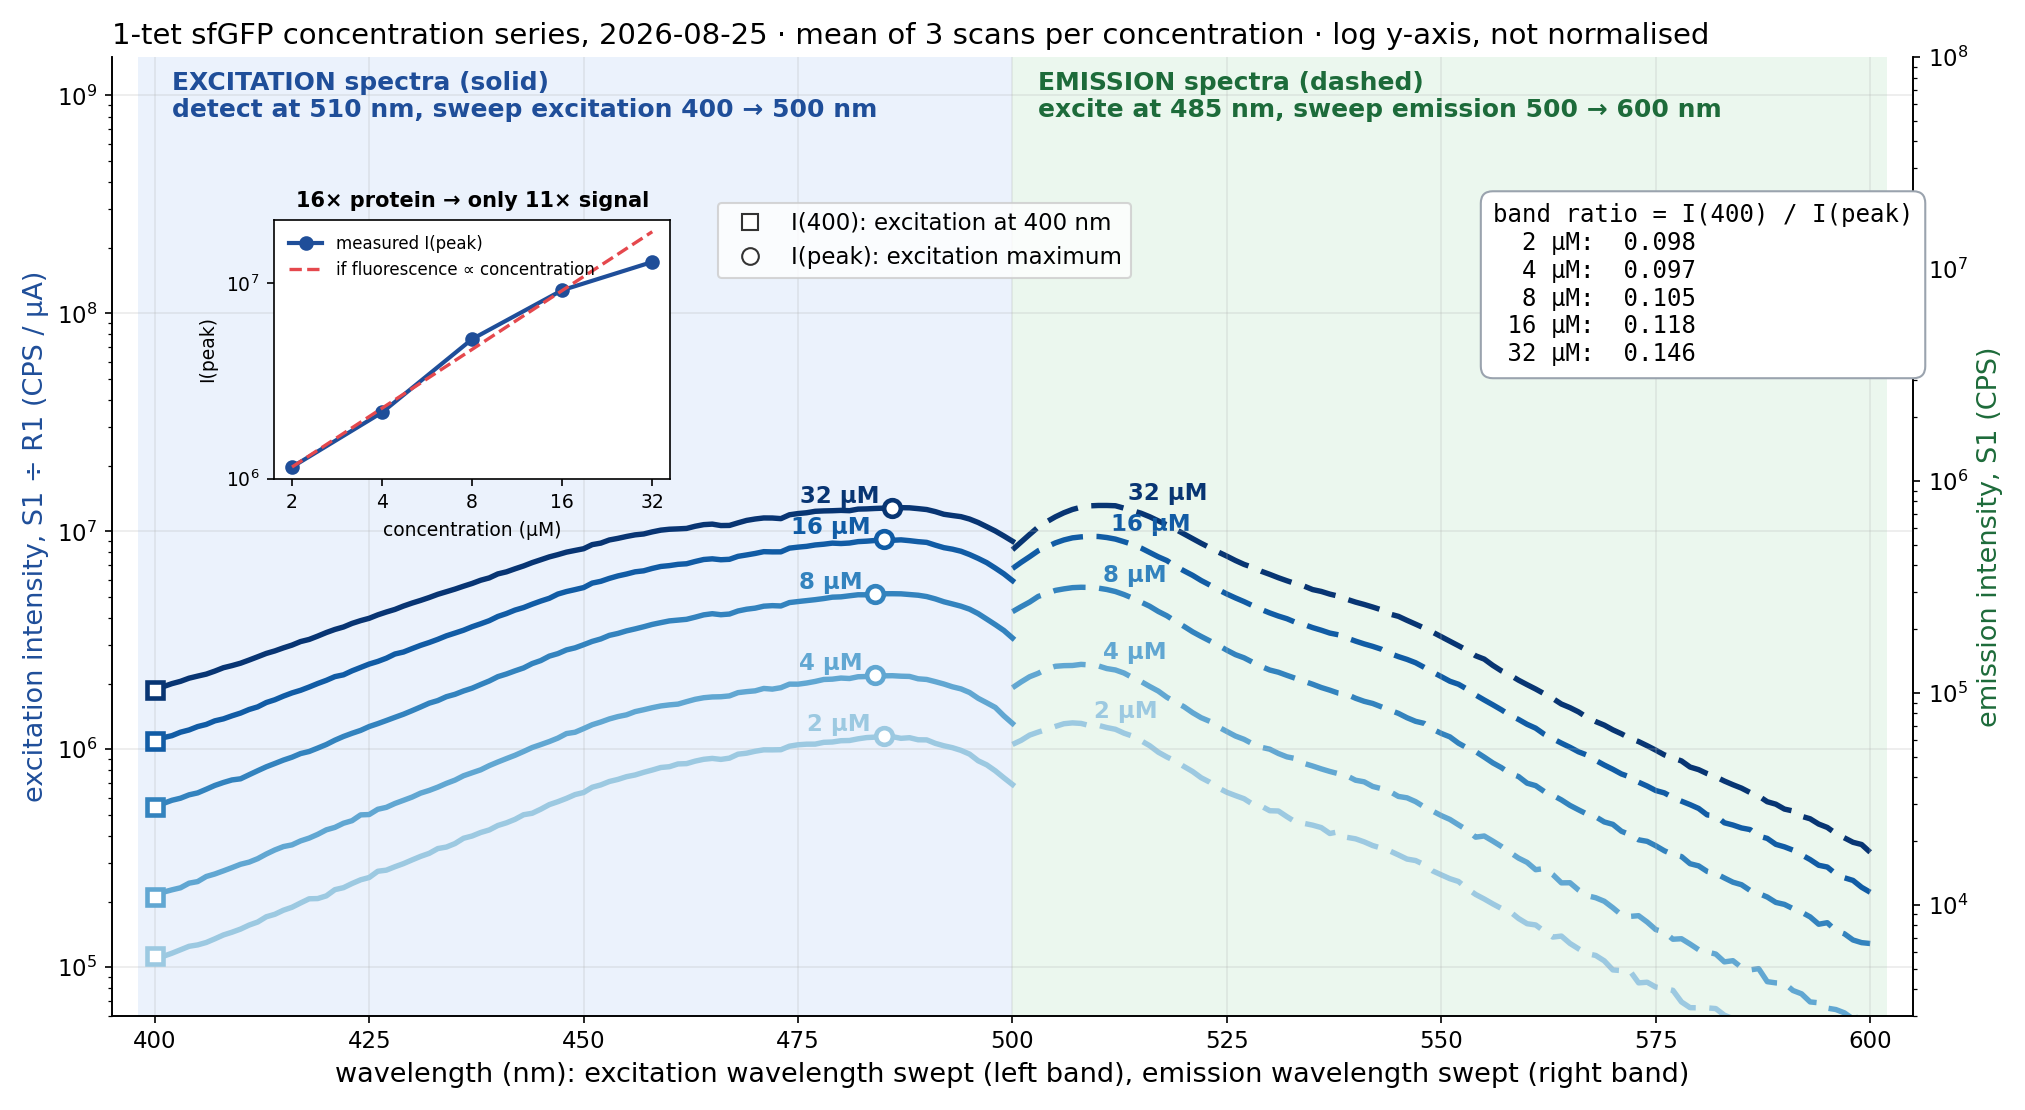
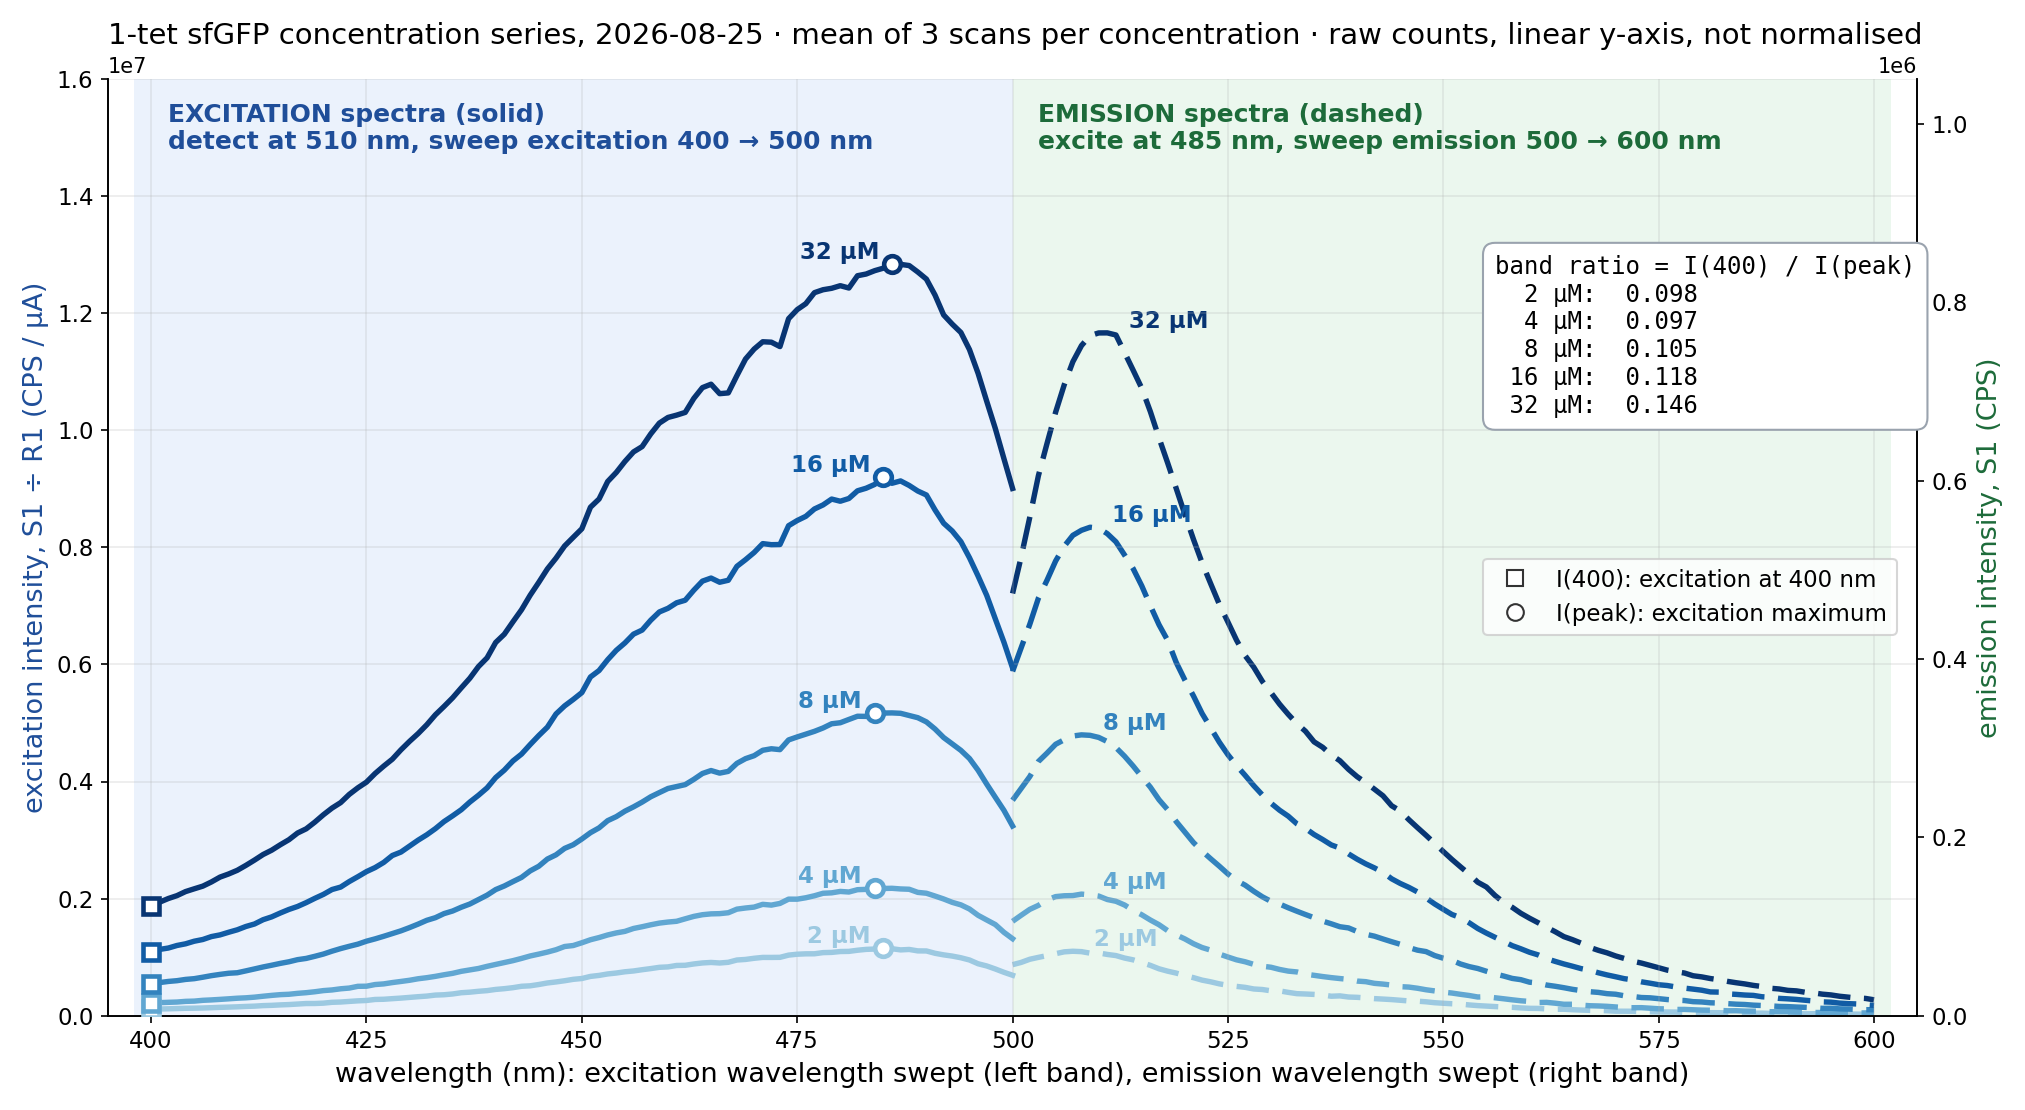
Lab meeting deck: band-ratio slide uses raw counts, then switches to a log plot at the non-linearity headline
Media items can overlay another item (over: j) and appear on points with alt: true.
The log figure carries a note on how it shows the non-linear dependence.

Claude-Session: https://claude.ai/code/session_01XUYAW9KRYac2ms85dJyAim

diff --git a/presentations/lab-meeting-261029/template.html b/presentations/lab-meeting-261029/template.html
@@ -254,6 +254,8 @@ body {
 .m-banner.on { opacity: 1; transform: translate(-50%, -50%) scale(1); }
 .m-banner b { color: var(--ink); }
 .m-banner .ttl { display: block; font-size: 24px; font-weight: 700; letter-spacing: .12em; text-transform: uppercase; color: var(--amber); margin-bottom: 14px; }
+.m-pt .chip-swap { display: inline-block; margin-bottom: 8px; padding: 4px 12px; border-radius: 999px; background: var(--sec-assay); color: #fff; font-size: .85em; }
+.m-pt .chip-swap b { color: #fff; }
 .m-pt .headline { display: block; background: color-mix(in srgb, var(--amber) 14%, transparent); border-left: 6px solid var(--amber); border-radius: 8px; padding: 10px 16px; color: var(--ink); }
 .m-pt ul.sub { margin: 6px 0 2px; padding-left: 28px; list-style: circle; }
 .m-pt ul.sub li { font-size: .9em; margin: 4px 0; }
@@ -983,9 +985,11 @@ function buildMedia(el, cfg) {
     items.forEach((_, i) => boxes.push({ x: 64 + i * (w + gap), y: top, w, h }));
     var ptBox = { x: 64, y: top + h + 30, w: 1792, cols: true };
   } else {
-    const fw = cfg.figW || 1160, n = items.length, gap = 22;
+    // items with over: j share item j's box (an alternate figure shown by points with alt: true)
+    const fw = cfg.figW || 1160, n = items.filter(it => it.over == null).length, gap = 22;
     const hh = (bottom - top - (n - 1) * gap) / n;
-    items.forEach((_, i) => boxes.push({ x: 64, y: top + i * (hh + gap), w: fw, h: hh }));
+    let j = 0; items.forEach(it => boxes.push(it.over != null ? null : { x: 64, y: top + (j++) * (hh + gap), w: fw, h: hh }));
+    items.forEach((it, i) => { if (it.over != null) boxes[i] = boxes[it.over]; });
     var ptBox = { x: 64 + fw + 48, y: top + (cfg.q ? (cfg.qH || (cfg.q.length > 46 ? 86 : 52)) : 6), w: 1792 - fw - 48 };
   }
   const els = items.map((it, i) => {
@@ -1045,7 +1049,7 @@ function buildMedia(el, cfg) {
   const ul = h('ul', 'm-pts' + (ptBox.cols ? ' cols' : '') + (cfg.big ? ' big' : ''), { style: { left: ptBox.x + 'px', top: ptBox.y + 'px', width: ptBox.w + 'px' } });
   // a point with banner: true is shown as a large centred overlay instead of a bullet
   const lis = pts.map(pt => { const li = h(pt.banner ? 'div' : 'li', pt.banner ? 'm-banner' : 'm-pt', { html: pt.text }); (pt.banner ? el : ul).appendChild(li); return li; });
-  items.forEach((_, i) => place(i, boxes[i], false));
+  items.forEach((it, i) => place(i, boxes[i], it.over != null));
   el.appendChild(ul);
   const FULL = pts.length + Math.max(0, E - 1);
   return { kind: 'media', k: -1, apply(k) {
@@ -1062,7 +1066,8 @@ function buildMedia(el, cfg) {
         els.forEach(e => e.classList.remove('mhl'));
         return;
       }
-      items.forEach((_, i) => place(i, boxes[i], false));
+      const alt = !!(pts[k - E] && pts[k - E].alt);
+      items.forEach((it, i) => place(i, boxes[i], it.over != null ? !alt : items.some(o => o.over === i) && alt));
       exBox.classList.remove('on'); ul.style.opacity = 1; if (qEl) qEl.style.opacity = 1;
       k = k - E + 1;
       showMarks(pts[k - 1] && pts[k - 1].marks);

diff --git a/presentations/lab-meeting-261029/charts/band_ratio_spectra.py b/presentations/lab-meeting-261029/charts/band_ratio_spectra.py
@@ -20,54 +20,73 @@ T = [t for t in P['traces'] if t['group'] != 'calibration']
 GROUPS = [g for g in P['groups'] if g != 'calibration']
 cols = plt.cm.Blues(np.linspace(.38, .98, len(GROUPS)))
 
-fig, ax = plt.subplots(figsize=(13.5, 7.4), dpi=150)
-ax2 = ax.twinx()
-ax2.axvspan(398, 500, color='#dbe8fb', alpha=.55, lw=0, zorder=0)
-ax2.axvspan(500, 602, color='#dff3e4', alpha=.6, lw=0, zorder=0)
-ax.set_zorder(ax2.get_zorder() + 1); ax.patch.set_visible(False)
-marks, rows = {}, []
-for g, c in zip(GROUPS, cols):
-    ex = np.mean([np.array(t['s1'], float) / np.array(t['r1'], float) for t in T if t['group'] == g and t['mode'] == 'excitation'], 0)
-    em = np.mean([np.array(t['s1'], float) for t in T if t['group'] == g and t['mode'] == 'emission'], 0)
-    xe = 400 + np.arange(len(ex)); xm = 500 + np.arange(len(em))
-    ax.plot(xe, ex, color=c, lw=2.6)
-    ax2.plot(xm, em, color=c, lw=2.6, ls=(0, (6, 2.5)))
-    k = int(ex.argmax()); pk, i400 = ex[k], ex[0]
-    ax.plot([xe[k]], [pk], 'o', ms=8, mfc='white', mec=c, mew=2.2, zorder=6)
-    ax.plot([400], [i400], 's', ms=8, mfc='white', mec=c, mew=2.2, zorder=6)
-    j = int(em.argmax()); ax2.text(xm[j] + 2.5, em[j], g, color=c, fontsize=11, fontweight='bold', va='bottom')
-    ax.text(xe[k] - 1.5, pk, g, color=c, fontsize=11, fontweight='bold', ha='right', va='bottom')
-    rows.append((g, i400, pk, xe[k], i400 / pk, xm[int(em.argmax())]))
-    gk = g.replace(' µM', '')
-    marks[f'br_pk{gk}'] = (ax, xe[k], pk); marks[f'br_400_{gk}'] = (ax, 400, i400); marks[f'br_em{gk}'] = (ax2, xm[int(em.argmax())], em.max())
-ax.set_xlim(395, 605); ax.set_yscale('log'); ax2.set_yscale('log'); ax.set_ylim(6e4, 1.5e9); ax2.set_ylim(3e3, 1.5e9 / 15)
-ax.set_xlabel('wavelength (nm): excitation wavelength swept (left band), emission wavelength swept (right band)', fontsize=13)
-ax.set_ylabel('excitation intensity, S1 ÷ R1 (CPS / µA)', fontsize=13, color='#1f4e99')
-ax2.set_ylabel('emission intensity, S1 (CPS)', fontsize=13, color='#1d6b3a')
-ax.tick_params(labelsize=11); ax2.tick_params(labelsize=11)
-ax.text(402, 1.3e9, 'EXCITATION spectra (solid)\ndetect at 510 nm, sweep excitation 400 → 500 nm', fontsize=12, fontweight='bold', color='#1f4e99', va='top')
-ax.text(503, 1.3e9, 'EMISSION spectra (dashed)\nexcite at 485 nm, sweep emission 500 → 600 nm', fontsize=12, fontweight='bold', color='#1d6b3a', va='top')
-tab = 'band ratio = I(400) / I(peak)\n' + '\n'.join(f'{g:>6}:  {r:.3f}' for g, _, _, _, r, _ in rows)
-ax.text(556, 3.2e8, tab, fontsize=11.5, family='monospace', va='top', bbox=dict(fc='white', ec='#9aa3ae', boxstyle='round,pad=.5'))
-ax.plot([], [], 's', ms=8, mfc='white', mec='#333', label='I(400): excitation at 400 nm')
-ax.plot([], [], 'o', ms=8, mfc='white', mec='#333', label='I(peak): excitation maximum')
-ax.legend(loc='upper left', bbox_to_anchor=(0.33, 0.86), fontsize=11, frameon=True)
-ax.set_title('1-tet sfGFP concentration series, 2026-08-25 · mean of 3 scans per concentration · log y-axis, not normalised', fontsize=14, loc='left')
-for a in (ax, ax2):
-    for sp in ('top',): a.spines[sp].set_visible(False)
-ax.grid(alpha=.25)
-# inset: peak intensity vs concentration, log-log, against strict proportionality
-conc = np.array([float(g.split()[0]) for g, *_ in rows]); pks = np.array([pk for _, _, pk, *_ in rows])
-ins = ax.inset_axes([0.09, 0.56, 0.22, 0.27])
-ins.loglog(conc, pks, 'o-', color='#1f4e99', lw=2, ms=6, label='measured I(peak)')
-ins.loglog(conc, pks[0] * conc / conc[0], '--', color='#e5484d', lw=1.6, label='if fluorescence ∝ concentration')
-ins.set_xticks(conc); ins.set_xticklabels([f'{c:g}' for c in conc], fontsize=9); ins.minorticks_off()
-ins.tick_params(labelsize=9); ins.set_xlabel('concentration (µM)', fontsize=9); ins.set_ylabel('I(peak)', fontsize=9)
-ins.legend(fontsize=8, frameon=False, loc='upper left'); ins.set_title('16× protein → only 11× signal', fontsize=10, fontweight='bold')
-fig.tight_layout(); fig.canvas.draw()
-W, H = fig.canvas.get_width_height()
-anns = {k: [round(float(a.transData.transform((x, y))[0]) / W, 3), round(1 - float(a.transData.transform((x, y))[1]) / H, 3)] for k, (a, x, y) in marks.items()}
-out = ROOT / 'charts/band_ratio_spectra.png'; fig.savefig(out)
-A = json.loads((ROOT / 'md/anns_sfgfp.json').read_text()); A['band_ratio_spectra.png'] = anns
-(ROOT / 'md/anns_sfgfp.json').write_text(json.dumps(A))
-for r in rows: print('%s I400 %.3g Ipeak %.3g at %d ratio %.4f em max %d' % r)
+def draw(log):
+    pre = 'lg_' if log else ''
+    fig, ax = plt.subplots(figsize=(13.5, 7.4), dpi=150)
+    ax2 = ax.twinx()
+    ax2.axvspan(398, 500, color='#dbe8fb', alpha=.55, lw=0, zorder=0)
+    ax2.axvspan(500, 602, color='#dff3e4', alpha=.6, lw=0, zorder=0)
+    ax.set_zorder(ax2.get_zorder() + 1); ax.patch.set_visible(False)
+    marks, rows = {}, []
+    for g, c in zip(GROUPS, cols):
+        ex = np.mean([np.array(t['s1'], float) / np.array(t['r1'], float) for t in T if t['group'] == g and t['mode'] == 'excitation'], 0)
+        em = np.mean([np.array(t['s1'], float) for t in T if t['group'] == g and t['mode'] == 'emission'], 0)
+        xe = 400 + np.arange(len(ex)); xm = 500 + np.arange(len(em))
+        ax.plot(xe, ex, color=c, lw=2.6)
+        ax2.plot(xm, em, color=c, lw=2.6, ls=(0, (6, 2.5)))
+        k = int(ex.argmax()); pk, i400 = ex[k], ex[0]
+        ax.plot([xe[k]], [pk], 'o', ms=8, mfc='white', mec=c, mew=2.2, zorder=6)
+        ax.plot([400], [i400], 's', ms=8, mfc='white', mec=c, mew=2.2, zorder=6)
+        j = int(em.argmax()); ax2.text(xm[j] + 2.5, em[j], g, color=c, fontsize=11, fontweight='bold', va='bottom')
+        ax.text(xe[k] - 1.5, pk, g, color=c, fontsize=11, fontweight='bold', ha='right', va='bottom')
+        rows.append((g, i400, pk, xe[k], i400 / pk, xm[int(em.argmax())]))
+        gk = g.replace(' µM', '')
+        marks[f'br_pk{gk}'] = (ax, xe[k], pk); marks[f'br_400_{gk}'] = (ax, 400, i400); marks[f'br_em{gk}'] = (ax2, xm[int(em.argmax())], em.max())
+    ax.set_xlim(395, 605)
+    if log: ax.set_yscale('log'); ax2.set_yscale('log'); ax.set_ylim(6e4, 1.5e9); ax2.set_ylim(3e3, 1.5e9 / 15); TOP, TAB = 1.3e9, 3.2e8
+    else: ax.set_ylim(0, 1.6e7); ax2.set_ylim(0, 1.05e6); TOP, TAB = 1.56e7, 1.3e7
+    ax.set_xlabel('wavelength (nm): excitation wavelength swept (left band), emission wavelength swept (right band)', fontsize=13)
+    ax.set_ylabel('excitation intensity, S1 ÷ R1 (CPS / µA)', fontsize=13, color='#1f4e99')
+    ax2.set_ylabel('emission intensity, S1 (CPS)', fontsize=13, color='#1d6b3a')
+    ax.tick_params(labelsize=11); ax2.tick_params(labelsize=11)
+    ax.text(402, TOP, 'EXCITATION spectra (solid)\ndetect at 510 nm, sweep excitation 400 → 500 nm', fontsize=12, fontweight='bold', color='#1f4e99', va='top')
+    ax.text(503, TOP, 'EMISSION spectra (dashed)\nexcite at 485 nm, sweep emission 500 → 600 nm', fontsize=12, fontweight='bold', color='#1d6b3a', va='top')
+    tab = 'band ratio = I(400) / I(peak)\n' + '\n'.join(f'{g:>6}:  {r:.3f}' for g, _, _, _, r, _ in rows)
+    ax.text(556, TAB, tab, fontsize=11.5, family='monospace', va='top', bbox=dict(fc='white', ec='#9aa3ae', boxstyle='round,pad=.5'))
+    ax.plot([], [], 's', ms=8, mfc='white', mec='#333', label='I(400): excitation at 400 nm')
+    ax.plot([], [], 'o', ms=8, mfc='white', mec='#333', label='I(peak): excitation maximum')
+    ax.legend(**(dict(loc='upper right', bbox_to_anchor=(0.995, 0.66)) if log else dict(loc='upper right', bbox_to_anchor=(0.995, 0.5))), fontsize=11, frameon=True)
+    ax.set_title('1-tet sfGFP concentration series, 2026-08-25 · mean of 3 scans per concentration · ' + ('LOG y-axis' if log else 'raw counts, linear y-axis') + ', not normalised', fontsize=14, loc='left')
+    for a in (ax, ax2):
+        for sp in ('top',): a.spines[sp].set_visible(False)
+    ax.grid(alpha=.25)
+    if not log: return finish(fig, ax, marks, rows, pre, 'band_ratio_spectra.png')
+    # inset: peak intensity vs concentration, log-log, against strict proportionality
+    conc = np.array([float(g.split()[0]) for g, *_ in rows]); pks = np.array([pk for _, _, pk, *_ in rows])
+    ins = ax.inset_axes([0.09, 0.56, 0.22, 0.27])
+    ins.loglog(conc, pks, 'o-', color='#1f4e99', lw=2, ms=6, label='measured I(peak)')
+    ins.loglog(conc, pks[0] * conc / conc[0], '--', color='#e5484d', lw=1.6, label='if fluorescence ∝ concentration')
+    ins.set_xticks(conc); ins.set_xticklabels([f'{c:g}' for c in conc], fontsize=9); ins.minorticks_off()
+    ins.tick_params(labelsize=9); ins.set_xlabel('concentration (µM)', fontsize=9); ins.set_ylabel('I(peak)', fontsize=9)
+    ins.legend(fontsize=8, frameon=False, loc='upper left'); ins.set_title('16× protein → only 11× signal', fontsize=10, fontweight='bold')
+    ax.text(503, 6.5e8, 'How this shows non-linearity\n'
+            '• log axis: each doubling of\n  concentration should lift a\n  curve by the same step\n'
+            '• 2 → 4 → 8 µM: near-equal steps\n• 8 → 16 → 32 µM: steps shrink\n  (×1.8, then ×1.4): curves bunch\n'
+            '• inset: measured I(peak) drops\n  below the proportional line', fontsize=10.5, va='top',
+            bbox=dict(fc='#fff8e6', ec='#b86e00', boxstyle='round,pad=.5'))
+    return finish(fig, ax, marks, rows, pre, 'band_ratio_spectra_log.png')
+
+
+def finish(fig, ax, marks, rows, pre, name):
+    fig.tight_layout(); fig.canvas.draw()
+    W, H = fig.canvas.get_width_height()
+    anns = {pre + k: [round(float(a.transData.transform((x, y))[0]) / W, 3), round(1 - float(a.transData.transform((x, y))[1]) / H, 3)] for k, (a, x, y) in marks.items()}
+    out = ROOT / 'charts' / name; fig.savefig(out); plt.close(fig)
+    A = json.loads((ROOT / 'md/anns_sfgfp.json').read_text()); A[name] = anns
+    (ROOT / 'md/anns_sfgfp.json').write_text(json.dumps(A))
+    return rows
+
+
+for r in draw(False): print('%s I400 %.3g Ipeak %.3g at %d ratio %.4f em max %d' % r)
+
+draw(True)
